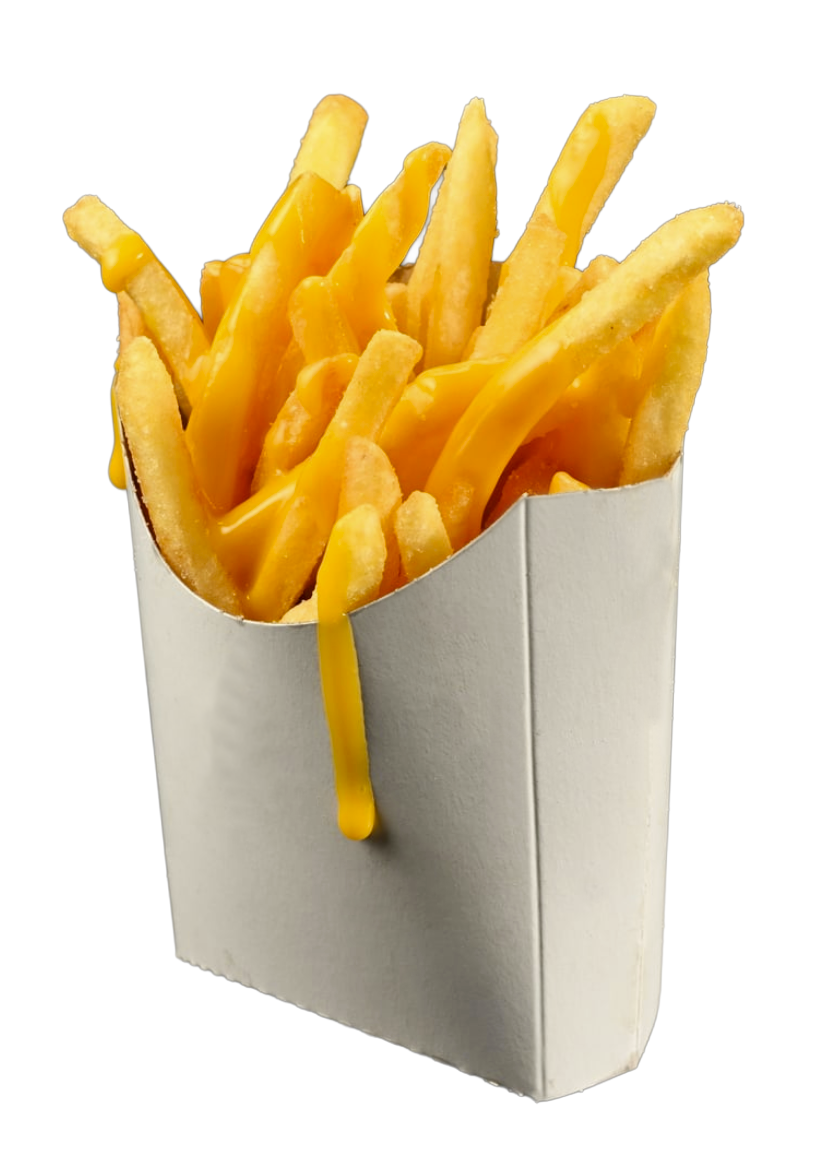
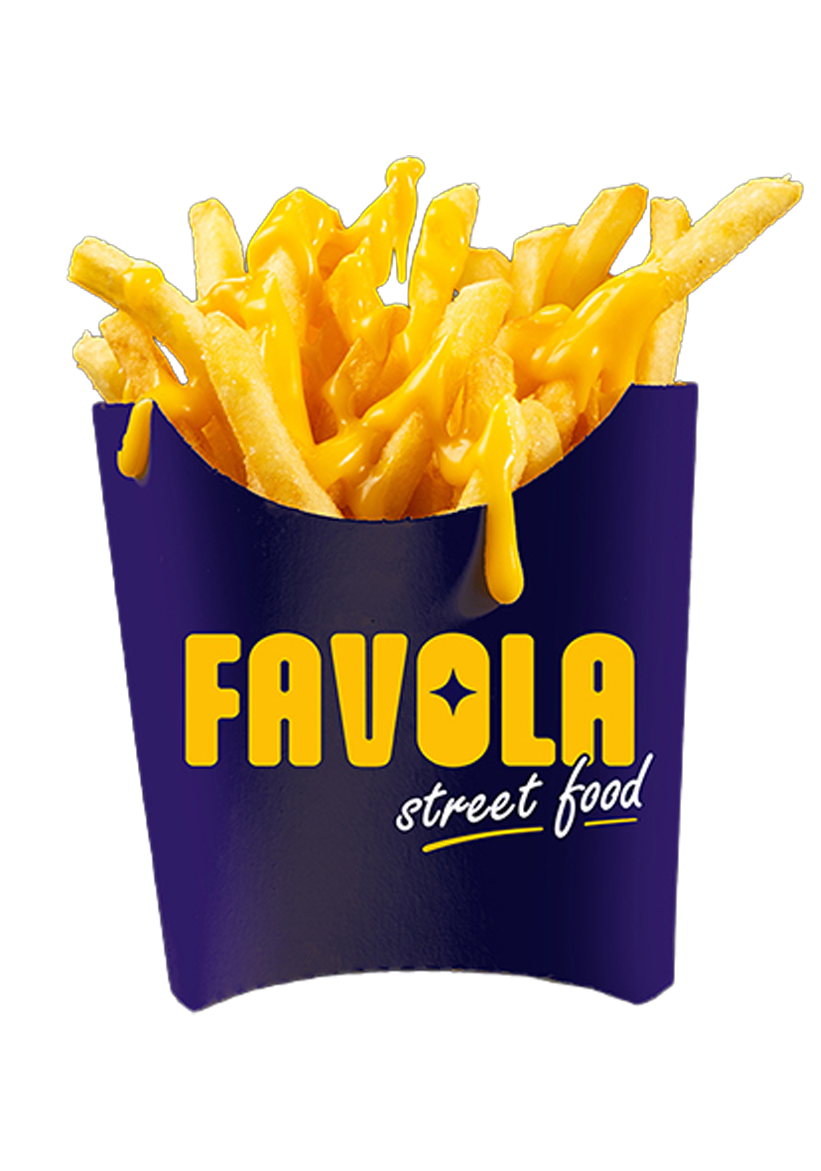
izmena slika proizvoda

diff --git a/script.js b/script.js
@@ -15,19 +15,19 @@ const bestSellers = [
   },
   {
     name: "Tortilja Hrskava piletina",
-    image: "assets/product-images/tortilja.png",
+    image: "assets/product-images/tortilja.jpg",
     desc: "ajsberg, kačkavalj, paradajz, Favola dressing, hrskava piletina",
     price: "540 rsd",
   },
   {
     name: "Italijanska Piroška",
-    image: "assets/product-images/piroska.png",
+    image: "assets/product-images/piroska.jpg",
     desc: "pelat, kačkavalj, šunka, pečurke, pavlaka, kečap",
     price: "550 rsd",
   },
   {
     name: "Truffle double",
-    image: "assets/product-images/truffle-burger.png",
+    image: "assets/product-images/truffle-burger.jpg",
     desc: "meso x2, čedar x2, Heinz Truffle sos, ajsberg, pomfrit",
     price: "770 rsd",
   },
@@ -43,42 +43,42 @@ const pizzas = [
   },
   {
     name: "Margherita",
-    image: "assets/product-images/margarita.png",
+    image: "assets/product-images/margarita.jpg",
     size: "24/32/42 cm",
     desc: "pelat, kačkavalj, origano",
     price: "450/800/1050 rsd",
   },
   {
     name: "Pepperoni",
-    image: "assets/product-images/peperoni.png",
+    image: "assets/product-images/peproni.jpg",
     size: "24/32/42 cm",
     desc: "pelat, kačkavalj, kulen, feferone, slanina, origano",
     price: "540/980/1320 rsd",
   },
   {
     name: "Pršuto pizza",
-    image: "assets/product-images/prsuto.png",
+    image: "assets/product-images/prsuto.jpg",
     size: "24/32/42 cm",
     desc: "pelat, kačkavalj, pršuta, parmezan, origano",
     price: "640/1180/1520 rsd",
   },
   {
     name: "Vege pizza",
-    image: "assets/product-images/vege.png",
+    image: "assets/product-images/vege.jpg",
     size: "24/32/42 cm",
     desc: "pelat, posni kačkavalj, paprika, kukuruz, masline, luk, origano, pečurke",
     price: "530/960/1290 rsd",
   },
   {
     name: "Tuna pizza",
-    image: "assets/product-images/tuna.png",
+    image: "assets/product-images/tuna.jpg",
     size: "24/32/42 cm",
     desc: "pelat, kačkavalj, tuna, kukuruz, crveni luk, paprika, origano, pečurke",
     price: "560/1020/1380 rsd",
   },
   {
     name: "Favola Special",
-    image: "assets/product-images/favola-specijal.png",
+    image: "assets/product-images/favola-specijal.jpg",
     size: "24/32/42 cm",
     desc: "pelat, kačkavalj, pečurke, šunka, kulen, slanina, jaje, origano, pavlaka",
     price: "690/1260/1770 rsd",
@@ -92,7 +92,7 @@ const pizzas = [
   },
   {
     name: "Italijanska Piroška",
-    image: "assets/product-images/piroska.png",
+    image: "assets/product-images/piroska.jpg",
     desc: "pelat, kačkavalj, šunka, pečurke, pavlaka, kečap",
     price: "550 rsd",
   },
@@ -101,31 +101,31 @@ const pizzas = [
 const burgers = [
   {
     name: "Cheeseburger double",
-    image: "assets/product-images/cizburger.png",
+    image: "assets/product-images/cizburger.jpg",
     desc: "meso x2, čedar x2, Heinz kečap, senf, luk, krastavčići, pomfrit",
     price: "690 rsd",
   },
   {
     name: "Original double",
-    image: "assets/product-images/original-burger.png",
+    image: "assets/product-images/original-burger.jpg",
     desc: "meso x2, čedar x2, burger sos, paradajz, ajsberg, pomfrit",
     price: "720 rsd",
   },
   {
     name: "Bacon double",
-    image: "assets/product-images/bacon-burger.png",
+    image: "assets/product-images/bacon-burger.jpg",
     desc: "meso x2, čedar x2, BBQ sos, slaninica, ajsberg, pomfrit",
     price: "750 rsd",
   },
   {
     name: "Truffle double",
-    image: "assets/product-images/truffle-burger.png",
+    image: "assets/product-images/truffle-burger.jpg",
     desc: "meso x2, čedar x2, Heinz Truffle sos, ajsberg, pomfrit",
     price: "770 rsd",
   },
   {
     name: "Oklahoma double",
-    image: "assets/product-images/oklahoma-burger.png",
+    image: "assets/product-images/oklahoma-burger.jpg",
     desc: "meso smešovano sa lukom x2, čedar x2, senf, majonez, krastavčići",
     price: "790 rsd",
   },
@@ -134,19 +134,19 @@ const burgers = [
 const pancakes = [
   {
     name: "Kinder palačinka",
-    image: "assets/product-images/kinder.png",
+    image: "assets/product-images/kinder.jpg",
     desc: "",
     price: "430 rsd",
   },
   {
     name: "Nutella palačinka",
-    image: "assets/product-images/nutela.png",
+    image: "assets/product-images/nutela.jpg",
     desc: "",
     price: "370 rsd",
   },
   {
     name: "Eurocrem palačinka",
-    image: "assets/product-images/eurokrem.png",
+    image: "assets/product-images/eurokrem.jpg",
     desc: "",
     price: "320 rsd",
   },